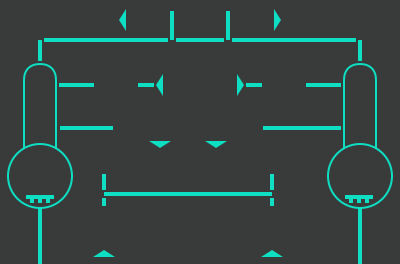
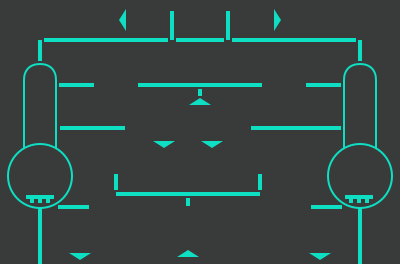
changed deaeraot mnemonic layout

diff --git a/src/com/hartrusion/rbmksim/gui/mnemonic/PanelMnemonicDeaerator.java b/src/com/hartrusion/rbmksim/gui/mnemonic/PanelMnemonicDeaerator.java
@@ -48,6 +48,7 @@ public class PanelMnemonicDeaerator extends javax.swing.JPanel {
         valve8 = new com.hartrusion.rbmksim.gui.mnemonic.Valve();
         valve9 = new com.hartrusion.rbmksim.gui.mnemonic.Valve();
         valve10 = new com.hartrusion.rbmksim.gui.mnemonic.Valve();
+        valve11 = new com.hartrusion.rbmksim.gui.mnemonic.Valve();
         jLabel1 = new javax.swing.JLabel();
 
         setMaximumSize(new java.awt.Dimension(400, 264));
@@ -55,26 +56,29 @@ public class PanelMnemonicDeaerator extends javax.swing.JPanel {
         setLayout(new org.netbeans.lib.awtextra.AbsoluteLayout());
 
         valve1.setVertical(true);
-        add(valve1, new org.netbeans.lib.awtextra.AbsoluteConstraints(95, 208, -1, -1));
+        add(valve1, new org.netbeans.lib.awtextra.AbsoluteConstraints(71, 211, -1, -1));
 
         valve2.setVertical(true);
-        add(valve2, new org.netbeans.lib.awtextra.AbsoluteConstraints(263, 208, -1, -1));
+        add(valve2, new org.netbeans.lib.awtextra.AbsoluteConstraints(311, 211, -1, -1));
 
         valve3.setVertical(true);
-        add(valve3, new org.netbeans.lib.awtextra.AbsoluteConstraints(95, 132, -1, -1));
+        add(valve3, new org.netbeans.lib.awtextra.AbsoluteConstraints(107, 132, -1, -1));
 
         valve4.setVertical(true);
-        add(valve4, new org.netbeans.lib.awtextra.AbsoluteConstraints(151, 150, -1, -1));
+        add(valve4, new org.netbeans.lib.awtextra.AbsoluteConstraints(155, 150, -1, -1));
 
         valve5.setVertical(true);
-        add(valve5, new org.netbeans.lib.awtextra.AbsoluteConstraints(207, 150, -1, -1));
+        add(valve5, new org.netbeans.lib.awtextra.AbsoluteConstraints(203, 150, -1, -1));
 
         valve6.setVertical(true);
-        add(valve6, new org.netbeans.lib.awtextra.AbsoluteConstraints(263, 132, -1, -1));
+        add(valve6, new org.netbeans.lib.awtextra.AbsoluteConstraints(251, 132, -1, -1));
         add(valve7, new org.netbeans.lib.awtextra.AbsoluteConstraints(96, 76, -1, -1));
         add(valve8, new org.netbeans.lib.awtextra.AbsoluteConstraints(264, 76, -1, -1));
         add(valve9, new org.netbeans.lib.awtextra.AbsoluteConstraints(128, 11, -1, -1));
         add(valve10, new org.netbeans.lib.awtextra.AbsoluteConstraints(232, 11, -1, -1));
+
+        valve11.setVertical(true);
+        add(valve11, new org.netbeans.lib.awtextra.AbsoluteConstraints(179, 208, -1, -1));
 
         jLabel1.setIcon(new javax.swing.ImageIcon(getClass().getResource("/com/hartrusion/rbmksim/gui/mnemonic/MnemonicDeaerator.png"))); // NOI18N
         add(jLabel1, new org.netbeans.lib.awtextra.AbsoluteConstraints(0, 0, -1, -1));
@@ -85,6 +89,7 @@ public class PanelMnemonicDeaerator extends javax.swing.JPanel {
     private javax.swing.JLabel jLabel1;
     private com.hartrusion.rbmksim.gui.mnemonic.Valve valve1;
     private com.hartrusion.rbmksim.gui.mnemonic.Valve valve10;
+    private com.hartrusion.rbmksim.gui.mnemonic.Valve valve11;
     private com.hartrusion.rbmksim.gui.mnemonic.Valve valve2;
     private com.hartrusion.rbmksim.gui.mnemonic.Valve valve3;
     private com.hartrusion.rbmksim.gui.mnemonic.Valve valve4;
